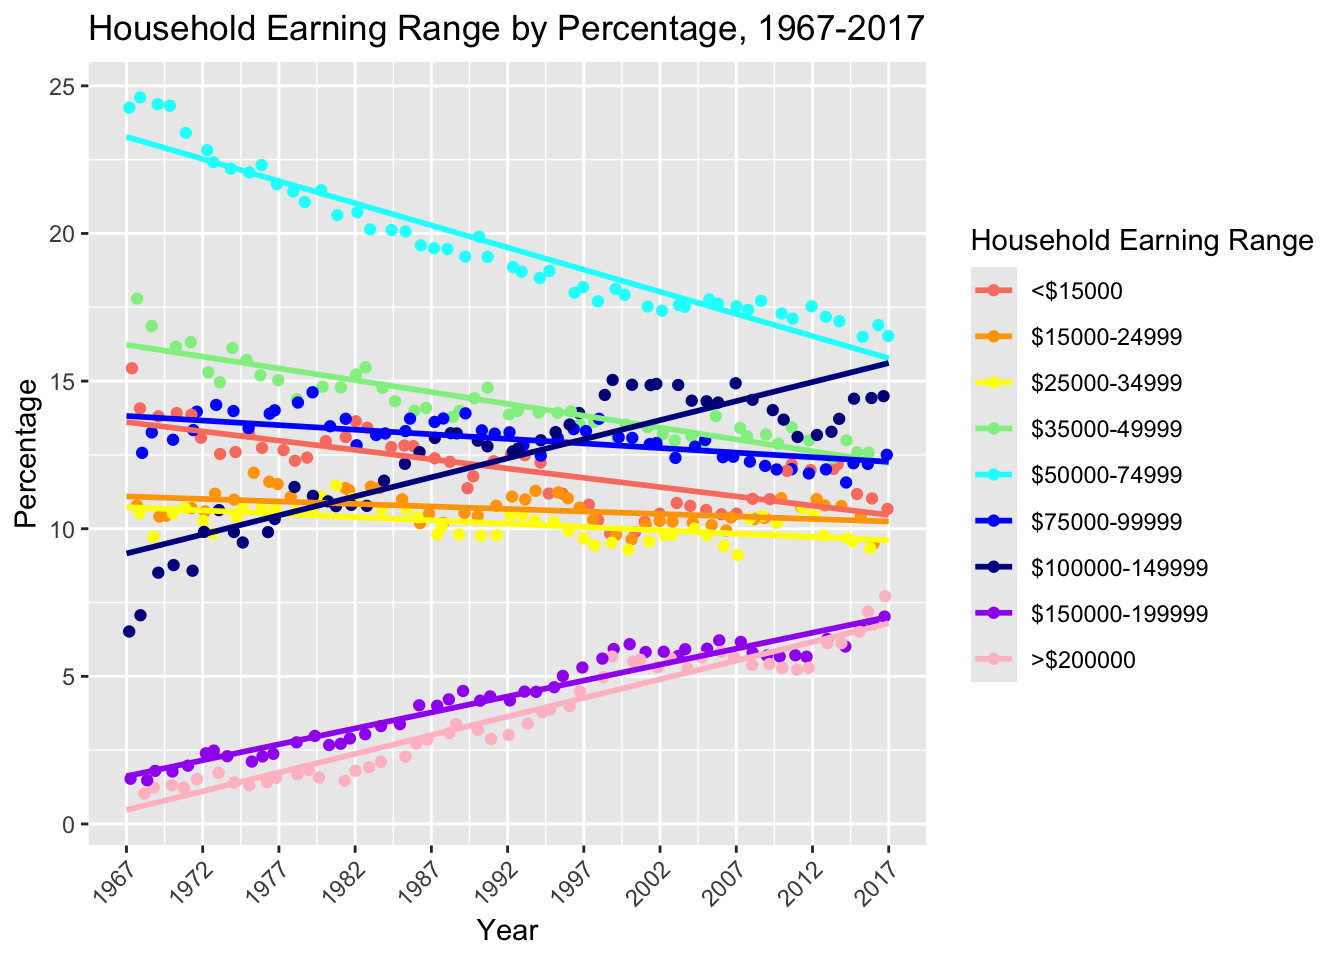
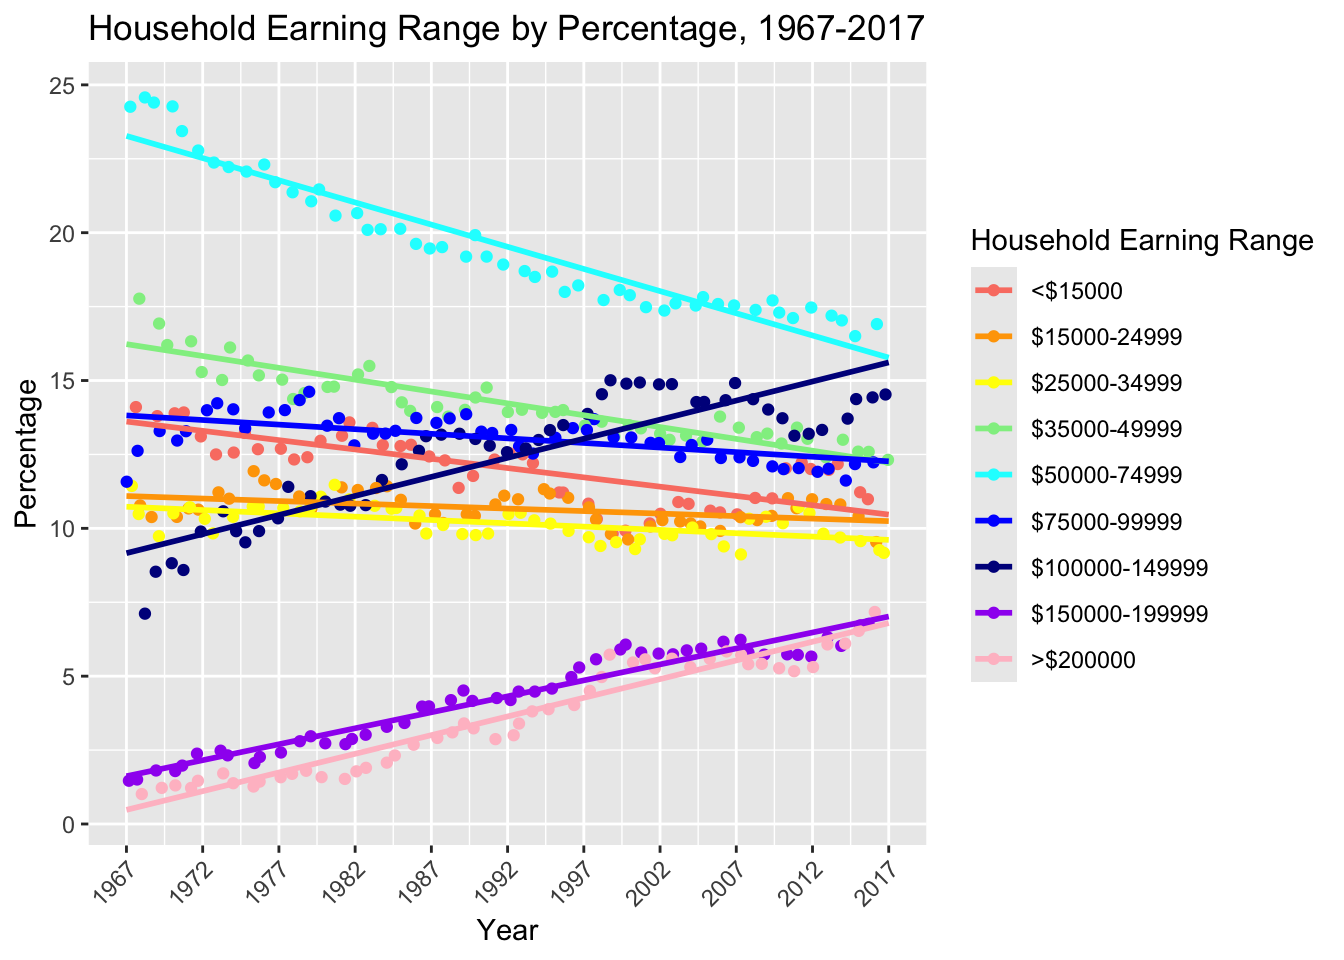
Built site for gh-pages

diff --git a/FinalProject.html b/FinalProject.html
@@ -582,23 +582,23 @@ Adding another scale for colour, which will replace the existing scale.</code></
 <span id="cb15-8"><a href="#cb15-8" aria-hidden="true" tabindex="-1"></a></span>
 <span id="cb15-9"><a href="#cb15-9" aria-hidden="true" tabindex="-1"></a>gt<span class="sc">::</span><span class="fu">gt</span>(cleanData2)</span></code><button title="Copy to Clipboard" class="code-copy-button"><i class="bi"></i></button></pre></div>
 <div class="cell-output-display">
-<div id="ccrhesxmja" style="padding-left:0px;padding-right:0px;padding-top:10px;padding-bottom:10px;overflow-x:auto;overflow-y:auto;width:auto;height:auto;">
-<style>#ccrhesxmja table {
+<div id="sbhruwfelr" style="padding-left:0px;padding-right:0px;padding-top:10px;padding-bottom:10px;overflow-x:auto;overflow-y:auto;width:auto;height:auto;">
+<style>#sbhruwfelr table {
   font-family: system-ui, 'Segoe UI', Roboto, Helvetica, Arial, sans-serif, 'Apple Color Emoji', 'Segoe UI Emoji', 'Segoe UI Symbol', 'Noto Color Emoji';
   -webkit-font-smoothing: antialiased;
   -moz-osx-font-smoothing: grayscale;
 }
 
-#ccrhesxmja thead, #ccrhesxmja tbody, #ccrhesxmja tfoot, #ccrhesxmja tr, #ccrhesxmja td, #ccrhesxmja th {
+#sbhruwfelr thead, #sbhruwfelr tbody, #sbhruwfelr tfoot, #sbhruwfelr tr, #sbhruwfelr td, #sbhruwfelr th {
   border-style: none;
 }
 
-#ccrhesxmja p {
+#sbhruwfelr p {
   margin: 0;
   padding: 0;
 }
 
-#ccrhesxmja .gt_table {
+#sbhruwfelr .gt_table {
   display: table;
   border-collapse: collapse;
   line-height: normal;
@@ -624,12 +624,12 @@ Adding another scale for colour, which will replace the existing scale.</code></
   border-left-color: #D3D3D3;
 }
 
-#ccrhesxmja .gt_caption {
+#sbhruwfelr .gt_caption {
   padding-top: 4px;
   padding-bottom: 4px;
 }
 
-#ccrhesxmja .gt_title {
+#sbhruwfelr .gt_title {
   color: #333333;
   font-size: 125%;
   font-weight: initial;
@@ -641,7 +641,7 @@ Adding another scale for colour, which will replace the existing scale.</code></
   border-bottom-width: 0;
 }
 
-#ccrhesxmja .gt_subtitle {
+#sbhruwfelr .gt_subtitle {
   color: #333333;
   font-size: 85%;
   font-weight: initial;
@@ -653,7 +653,7 @@ Adding another scale for colour, which will replace the existing scale.</code></
   border-top-width: 0;
 }
 
-#ccrhesxmja .gt_heading {
+#sbhruwfelr .gt_heading {
   background-color: #FFFFFF;
   text-align: center;
   border-bottom-color: #FFFFFF;
@@ -665,13 +665,13 @@ Adding another scale for colour, which will replace the existing scale.</code></
   border-right-color: #D3D3D3;
 }
 
-#ccrhesxmja .gt_bottom_border {
+#sbhruwfelr .gt_bottom_border {
   border-bottom-style: solid;
   border-bottom-width: 2px;
   border-bottom-color: #D3D3D3;
 }
 
-#ccrhesxmja .gt_col_headings {
+#sbhruwfelr .gt_col_headings {
   border-top-style: solid;
   border-top-width: 2px;
   border-top-color: #D3D3D3;
@@ -686,7 +686,7 @@ Adding another scale for colour, which will replace the existing scale.</code></
   border-right-color: #D3D3D3;
 }
 
-#ccrhesxmja .gt_col_heading {
+#sbhruwfelr .gt_col_heading {
   color: #333333;
   background-color: #FFFFFF;
   font-size: 100%;
@@ -706,7 +706,7 @@ Adding another scale for colour, which will replace the existing scale.</code></
   overflow-x: hidden;
 }
 
-#ccrhesxmja .gt_column_spanner_outer {
+#sbhruwfelr .gt_column_spanner_outer {
   color: #333333;
   background-color: #FFFFFF;
   font-size: 100%;
@@ -718,15 +718,15 @@ Adding another scale for colour, which will replace the existing scale.</code></
   padding-right: 4px;
 }
 
-#ccrhesxmja .gt_column_spanner_outer:first-child {
+#sbhruwfelr .gt_column_spanner_outer:first-child {
   padding-left: 0;
 }
 
-#ccrhesxmja .gt_column_spanner_outer:last-child {
+#sbhruwfelr .gt_column_spanner_outer:last-child {
   padding-right: 0;
 }
 
-#ccrhesxmja .gt_column_spanner {
+#sbhruwfelr .gt_column_spanner {
   border-bottom-style: solid;
   border-bottom-width: 2px;
   border-bottom-color: #D3D3D3;
@@ -738,11 +738,11 @@ Adding another scale for colour, which will replace the existing scale.</code></
   width: 100%;
 }
 
-#ccrhesxmja .gt_spanner_row {
+#sbhruwfelr .gt_spanner_row {
   border-bottom-style: hidden;
 }
 
-#ccrhesxmja .gt_group_heading {
+#sbhruwfelr .gt_group_heading {
   padding-top: 8px;
   padding-bottom: 8px;
   padding-left: 5px;
@@ -768,7 +768,7 @@ Adding another scale for colour, which will replace the existing scale.</code></
   text-align: left;
 }
 
-#ccrhesxmja .gt_empty_group_heading {
+#sbhruwfelr .gt_empty_group_heading {
   padding: 0.5px;
   color: #333333;
   background-color: #FFFFFF;
@@ -783,15 +783,15 @@ Adding another scale for colour, which will replace the existing scale.</code></
   vertical-align: middle;
 }
 
-#ccrhesxmja .gt_from_md > :first-child {
+#sbhruwfelr .gt_from_md > :first-child {
   margin-top: 0;
 }
 
-#ccrhesxmja .gt_from_md > :last-child {
+#sbhruwfelr .gt_from_md > :last-child {
   margin-bottom: 0;
 }
 
-#ccrhesxmja .gt_row {
+#sbhruwfelr .gt_row {
   padding-top: 8px;
   padding-bottom: 8px;
   padding-left: 5px;
@@ -810,7 +810,7 @@ Adding another scale for colour, which will replace the existing scale.</code></
   overflow-x: hidden;
 }
 
-#ccrhesxmja .gt_stub {
+#sbhruwfelr .gt_stub {
   color: #333333;
   background-color: #FFFFFF;
   font-size: 100%;
@@ -823,7 +823,7 @@ Adding another scale for colour, which will replace the existing scale.</code></
   padding-right: 5px;
 }
 
-#ccrhesxmja .gt_stub_row_group {
+#sbhruwfelr .gt_stub_row_group {
   color: #333333;
   background-color: #FFFFFF;
   font-size: 100%;
@@ -837,15 +837,15 @@ Adding another scale for colour, which will replace the existing scale.</code></
   vertical-align: top;
 }
 
-#ccrhesxmja .gt_row_group_first td {
+#sbhruwfelr .gt_row_group_first td {
   border-top-width: 2px;
 }
 
-#ccrhesxmja .gt_row_group_first th {
+#sbhruwfelr .gt_row_group_first th {
   border-top-width: 2px;
 }
 
-#ccrhesxmja .gt_summary_row {
+#sbhruwfelr .gt_summary_row {
   color: #333333;
   background-color: #FFFFFF;
   text-transform: inherit;
@@ -855,16 +855,16 @@ Adding another scale for colour, which will replace the existing scale.</code></
   padding-right: 5px;
 }
 
-#ccrhesxmja .gt_first_summary_row {
+#sbhruwfelr .gt_first_summary_row {
   border-top-style: solid;
   border-top-color: #D3D3D3;
 }
 
-#ccrhesxmja .gt_first_summary_row.thick {
+#sbhruwfelr .gt_first_summary_row.thick {
   border-top-width: 2px;
 }
 
-#ccrhesxmja .gt_last_summary_row {
+#sbhruwfelr .gt_last_summary_row {
   padding-top: 8px;
   padding-bottom: 8px;
   padding-left: 5px;
@@ -874,7 +874,7 @@ Adding another scale for colour, which will replace the existing scale.</code></
   border-bottom-color: #D3D3D3;
 }
 
-#ccrhesxmja .gt_grand_summary_row {
+#sbhruwfelr .gt_grand_summary_row {
   color: #333333;
   background-color: #FFFFFF;
   text-transform: inherit;
@@ -884,7 +884,7 @@ Adding another scale for colour, which will replace the existing scale.</code></
   padding-right: 5px;
 }
 
-#ccrhesxmja .gt_first_grand_summary_row {
+#sbhruwfelr .gt_first_grand_summary_row {
   padding-top: 8px;
   padding-bottom: 8px;
   padding-left: 5px;
@@ -894,7 +894,7 @@ Adding another scale for colour, which will replace the existing scale.</code></
   border-top-color: #D3D3D3;
 }
 
-#ccrhesxmja .gt_last_grand_summary_row_top {
+#sbhruwfelr .gt_last_grand_summary_row_top {
   padding-top: 8px;
   padding-bottom: 8px;
   padding-left: 5px;
@@ -904,11 +904,11 @@ Adding another scale for colour, which will replace the existing scale.</code></
   border-bottom-color: #D3D3D3;
 }
 
-#ccrhesxmja .gt_striped {
+#sbhruwfelr .gt_striped {
   background-color: rgba(128, 128, 128, 0.05);
 }
 
-#ccrhesxmja .gt_table_body {
+#sbhruwfelr .gt_table_body {
   border-top-style: solid;
   border-top-width: 2px;
   border-top-color: #D3D3D3;
@@ -917,7 +917,7 @@ Adding another scale for colour, which will replace the existing scale.</code></
   border-bottom-color: #D3D3D3;
 }
 
-#ccrhesxmja .gt_footnotes {
+#sbhruwfelr .gt_footnotes {
   color: #333333;
   background-color: #FFFFFF;
   border-bottom-style: none;
@@ -931,7 +931,7 @@ Adding another scale for colour, which will replace the existing scale.</code></
   border-right-color: #D3D3D3;
 }
 
-#ccrhesxmja .gt_footnote {
+#sbhruwfelr .gt_footnote {
   margin: 0px;
   font-size: 90%;
   padding-top: 4px;
@@ -940,7 +940,7 @@ Adding another scale for colour, which will replace the existing scale.</code></
   padding-right: 5px;
 }
 
-#ccrhesxmja .gt_sourcenotes {
+#sbhruwfelr .gt_sourcenotes {
   color: #333333;
   background-color: #FFFFFF;
   border-bottom-style: none;
@@ -954,7 +954,7 @@ Adding another scale for colour, which will replace the existing scale.</code></
   border-right-color: #D3D3D3;
 }
 
-#ccrhesxmja .gt_sourcenote {
+#sbhruwfelr .gt_sourcenote {
   font-size: 90%;
   padding-top: 4px;
   padding-bottom: 4px;
@@ -962,72 +962,72 @@ Adding another scale for colour, which will replace the existing scale.</code></
   padding-right: 5px;
 }
 
-#ccrhesxmja .gt_left {
+#sbhruwfelr .gt_left {
   text-align: left;
 }
 
-#ccrhesxmja .gt_center {
+#sbhruwfelr .gt_center {
   text-align: center;
 }
 
-#ccrhesxmja .gt_right {
+#sbhruwfelr .gt_right {
   text-align: right;
   font-variant-numeric: tabular-nums;
 }
 
-#ccrhesxmja .gt_font_normal {
+#sbhruwfelr .gt_font_normal {
   font-weight: normal;
 }
 
-#ccrhesxmja .gt_font_bold {
+#sbhruwfelr .gt_font_bold {
   font-weight: bold;
 }
 
-#ccrhesxmja .gt_font_italic {
+#sbhruwfelr .gt_font_italic {
   font-style: italic;
 }
 
-#ccrhesxmja .gt_super {
+#sbhruwfelr .gt_super {
   font-size: 65%;
 }
 
-#ccrhesxmja .gt_footnote_marks {
+#sbhruwfelr .gt_footnote_marks {
   font-size: 75%;
   vertical-align: 0.4em;
   position: initial;
 }
 
-#ccrhesxmja .gt_asterisk {
+#sbhruwfelr .gt_asterisk {
   font-size: 100%;
   vertical-align: 0;
 }
 
-#ccrhesxmja .gt_indent_1 {
+#sbhruwfelr .gt_indent_1 {
   text-indent: 5px;
 }
 
-#ccrhesxmja .gt_indent_2 {
+#sbhruwfelr .gt_indent_2 {
   text-indent: 10px;
 }
 
-#ccrhesxmja .gt_indent_3 {
+#sbhruwfelr .gt_indent_3 {
   text-indent: 15px;
 }
 
-#ccrhesxmja .gt_indent_4 {
+#sbhruwfelr .gt_indent_4 {
   text-indent: 20px;
 }
 
-#ccrhesxmja .gt_indent_5 {
+#sbhruwfelr .gt_indent_5 {
   text-indent: 25px;
 }
 
-#ccrhesxmja .katex-display {
+#sbhruwfelr .katex-display {
   display: inline-flex !important;
   margin-bottom: 0.75em !important;
 }
 
-#ccrhesxmja div.Reactable > div.rt-table > div.rt-thead > div.rt-tr.rt-tr-group-header > div.rt-th-group:after {
+#sbhruwfelr div.Reactable > div.rt-table > div.rt-thead > div.rt-tr.rt-tr-group-header > div.rt-th-group:after {
   height: 0px !important;
 }
 </style>
@@ -1741,7 +1741,7 @@ Adding another scale for colour, which will replace the existing scale.</code></
 <pre><code>`geom_smooth()` using formula = 'y ~ x'</code></pre>
 </div>
 <div class="cell-output cell-output-stderr">
-<pre><code>Warning: Removed 8 rows containing missing values or values outside the scale range
+<pre><code>Warning: Removed 11 rows containing missing values or values outside the scale range
 (`geom_point()`).</code></pre>
 </div>
 <div class="cell-output-display">
